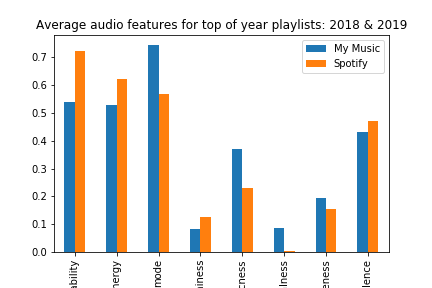
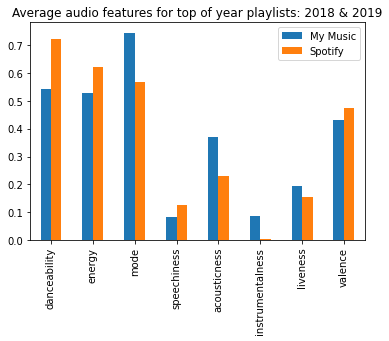
Fix directories for data analysis

diff --git a/EDA_0.3_pd.py b/EDA_0.3_pd.py
@@ -8,9 +8,9 @@ from wordcloud import *
 
 
 #Pull the files
-sp_files = glob.glob("sp*[2018,2019,n].csv")
+sp_files = glob.glob("SpApp/sp*[2018,2019,n].csv")
 sp_files
-my_files = glob.glob("[!sp]*[2018,19].csv")
+my_files = glob.glob("User/*[2018,19].csv")
 my_files
 
 
@@ -35,13 +35,13 @@ spmean = mean_features(sp_df)
 
 plot_df = pd.DataFrame({'My Music': mymean, 'Spotify': spmean}, index = spmean.index)
 ax = plot_df.plot.bar(title = 'Average audio features for top of year playlists: 2018 & 2019')
-avg_plt_fig = ax.get_figure().savefig('Average.png')
+avg_plt_fig = ax.get_figure().savefig('Average.png', bbox_inches = 'tight')
 
 
-sp2018df = pd.read_csv('sp_top_2018.csv')
-sp2019df = pd.read_csv('sp_top_2019.csv')
-my2018df = pd.read_csv('top_2018.csv')
-my2019df = pd.read_csv('top_2019.csv')
+sp2018df = pd.read_csv('SpApp/sp_top_2018.csv')
+sp2019df = pd.read_csv('SpApp/sp_top_2019.csv')
+my2018df = pd.read_csv('User/top_2018.csv')
+my2019df = pd.read_csv('User/top_2019.csv')
 
 mymean18 = mean_features(my2018df)
 mymean19 = mean_features(my2019df)
@@ -53,7 +53,7 @@ plotdf = pd.DataFrame({'My Music 2018' : mymean18, 'My Music 2019': mymean19,
 
 plotdf
 axe = plotdf.plot.bar(title = 'Average audio features for top of year playlists: 2018 & 2019')
-dis_plot_fig = axe.get_figure().savefig('Discrete_plot.png')
+dis_plot_fig = axe.get_figure().savefig('Discrete_plot.png', bbox_inches = 'tight')
 
 
 # -----------------------------------------------------
